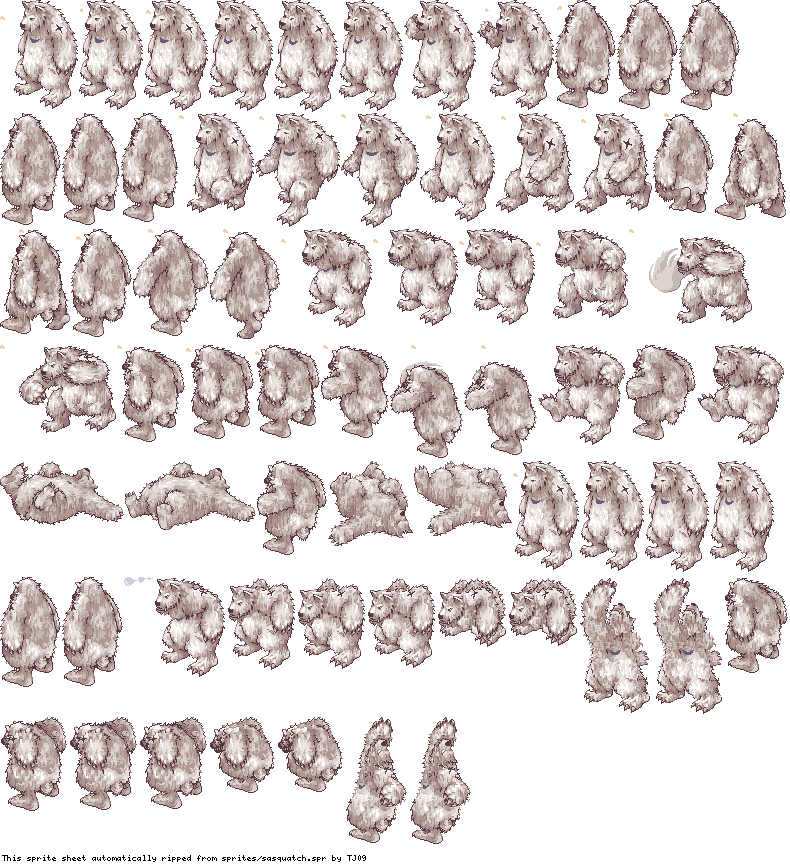
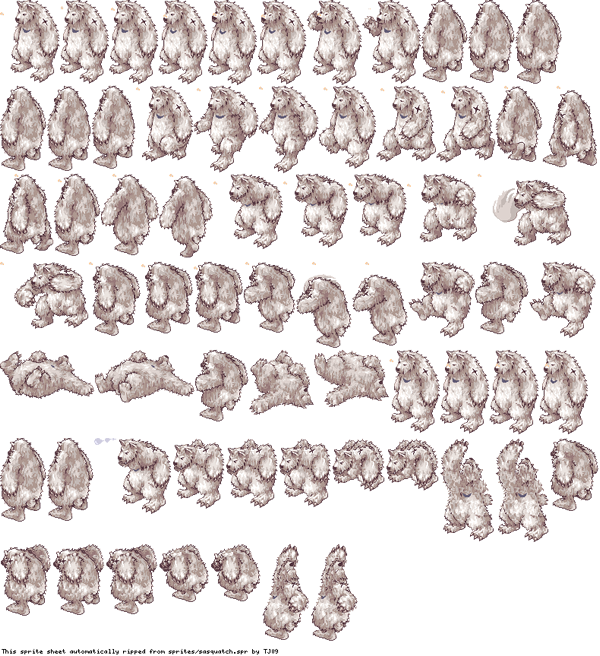
add bear

Changed region(s): [[0.99, 0.2134, 1.0, 0.2439]]

diff --git a/js/enemies.js b/js/enemies.js
@@ -4,15 +4,15 @@ define('enemies', ['mediator', 'stage'], function (mediator, stage) {
 		clickedX,
 		clickedY,
 		posY = 10,
-		sizeX = 37,
-		sizeY = 55,
+		sizeX = 60,
+		sizeY = 80,
 		x = 0,
 		y = 0,
 		image = new Image(),
 		timer,
 		delay = 150;
 
-	image.src = './img/user.png';
+	image.src = './img/bear.png';
 
 	mediator.subscribe('game_start', function (ctx, canvas) {
 		image.onload = function() {
